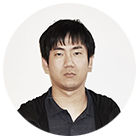
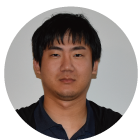
front fix

diff --git a/application/views/index.html b/application/views/index.html
@@ -248,7 +248,7 @@
     <!--//features-->
     <div class="team-section" id="team">
         <div class="container text-center">
-            <h2 class="section-title">PROVIDE BY WM</h2>
+            <h2 class="section-title">PROVIDE BY UMWN</h2>
             <div class="story">
                 <p>愛媛県で共にプログラマを学習した仲間でチームを結成<br>
 			それぞれの技術を活かしAnimarlを開発しました。
@@ -289,8 +289,8 @@
                         </div>
 
                         <div class="member-content">
-                            <h3 class="member-name">永井</h3>
-                            <div class="member-title">フロントデザイン</div>
+                            <h3 class="member-name">若林 朋</h3>
+                            <div class="member-title">開発・設計</div>
                             <ul class="social list-inline">
                                 <li class="list-inline-item"><a class="twitter" href="http://twitter.com/tnajdek"
                                         target="_blank"><i class="fab fa-twitter"></i></a></li>
@@ -300,8 +300,7 @@
 
                             </ul>
                             <div class="member-desc">
-                                <p>永井は～</p>
-                                </p>
+                                <p>サーバ構築<br>PG設計<br>プログラム開発</p>
                             </div>
                             <!--//member-desc-->
                         </div>
@@ -313,26 +312,21 @@
                 <div class="item col-md-3 col-12">
                     <div class="item-inner">
                         <div class="profile mb-2">
-                            <img class="profile-image" src="assets/images/team-1.png" alt="Xiaoying Riley" />
+                            <img class="profile-image" src="assets/images/team-3.png" alt="Xiaoying Riley" />
                         </div>
-
                         <div class="member-content">
-                            <h3 class="member-name">中林さん</h3>
-                            <div class="member-title">システム開発</div>
+                            <h3 class="member-name">浦川花</h3>
+                            <div class="member-title">フロント開発</div>
                             <ul class="social list-inline">
                                 <li class="list-inline-item"><a class="twitter"
                                         href="https://twitter.com/3rdwave_themes" target="_blank"><i
                                             class="fab fa-twitter"></i></a></li>
-
                                 <li class="list-inline-item"><a class="facebook"
                                         href="https://www.facebook.com/3rdwavethemes/" target="_blank"><i
                                             class="fab fa-facebook-f"></i></a></li>
-                                <li class="list-inline-item"><a class="github" href="https://github.com/xriley"
-                                        target="_blank"><i class="fab fa-github"></i></a></li>
-
                             </ul>
                             <div class="member-desc">
-                                <p>中林さんは～～～</p>
+                                <p>WEBデザイン・コーディング</p>
                             </div>
                             <!--//member-desc-->
                         </div>
@@ -345,26 +339,21 @@
                 <div class="item col-md-3 col-12">
                     <div class="item-inner">
                         <div class="profile mb-2">
-                            <img class="profile-image" src="assets/images/team-1.png" alt="Xiaoying Riley" />
+                            <img class="profile-image" src="assets/images/team-4.png" alt="Xiaoying Riley" />
                         </div>
 
                         <div class="member-content">
-                            <h3 class="member-name">浦川さん</h3>
-                            <div class="member-title">システム開発</div>
+                            <h3 class="member-name">永井祐大郎</h3>
+                            <div class="member-title">開発・設計</div>
                             <ul class="social list-inline">
                                 <li class="list-inline-item"><a class="twitter"
                                         href="https://twitter.com/3rdwave_themes" target="_blank"><i
                                             class="fab fa-twitter"></i></a></li>
-
-                                <li class="list-inline-item"><a class="facebook"
-                                        href="https://www.facebook.com/3rdwavethemes/" target="_blank"><i
-                                            class="fab fa-facebook-f"></i></a></li>
                                 <li class="list-inline-item"><a class="github" href="https://github.com/xriley"
                                         target="_blank"><i class="fab fa-github"></i></a></li>
-
                             </ul>
                             <div class="member-desc">
-                                <p>浦川さんは～～～</p>
+                                <p>サーバ構築<br>PG設計<br>プログラム開発</p>
                             </div>
                             <!--//member-desc-->
                         </div>
